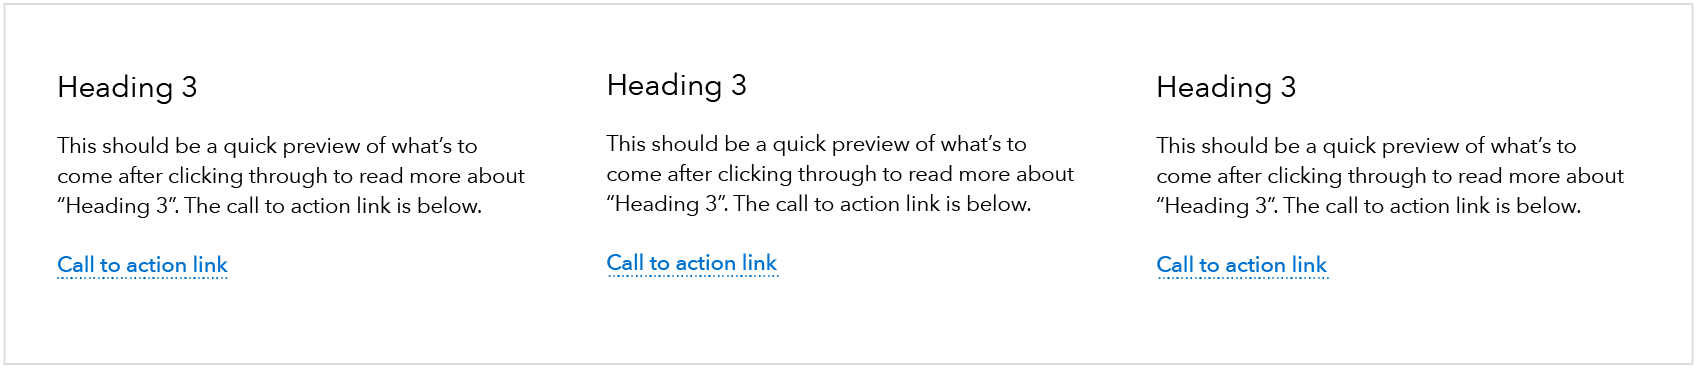
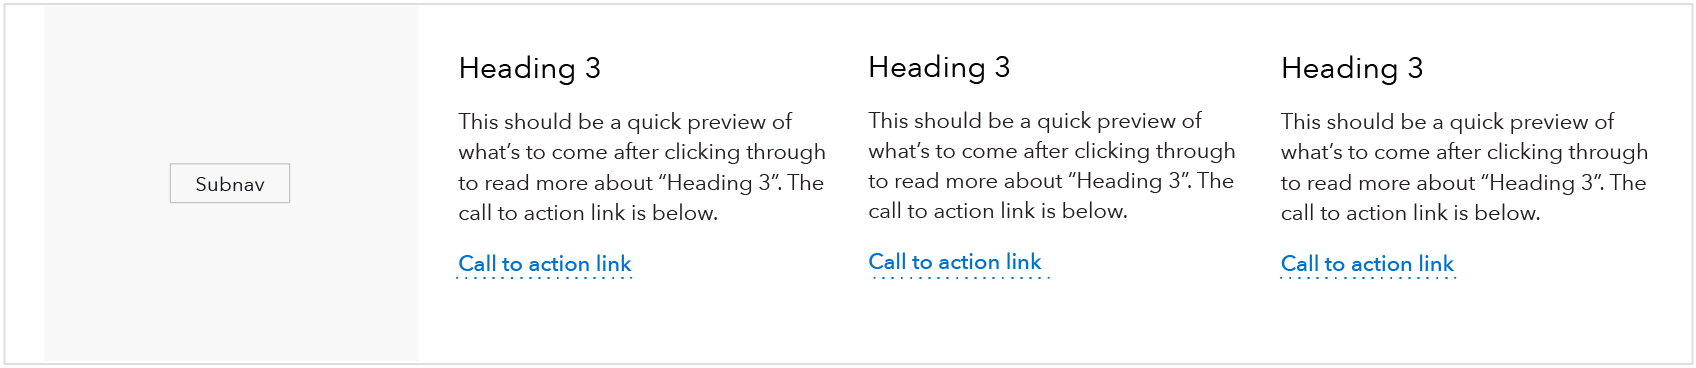
Updated images

diff --git a/page-components/third-width-link-blob.md b/page-components/third-width-link-blob.md
@@ -62,6 +62,9 @@ At breakpoints below 601, the three-column pattern transitions into a single col
 * When these components are featured together (which is ideal), the amount of content in each component should be as close to the same number of total lines as possible; a difference of one line is ok, but the components look best as a grouping when they are the same height (have the same number of lines).
 
 ## Style
+<nomarkdown>
+<img src="https://raw.githubusercontent.com/nataliafitzgerald/design-manual/gh-pages/static/img/third_width_link_blob/third_width_link_blob_style.png" alt="Mockup" height="100%" width="100%">
+</nomarkdown>
 <div class="content-67 content-first">
 * Headings: Use H3 or H4. Do not use both. 
   * H3: Use when you wish to give the blob heading text a higher level of prominence within the page hierarchy. Avoid using H3 when it will cause the heading to break to 3 lines or more. 
